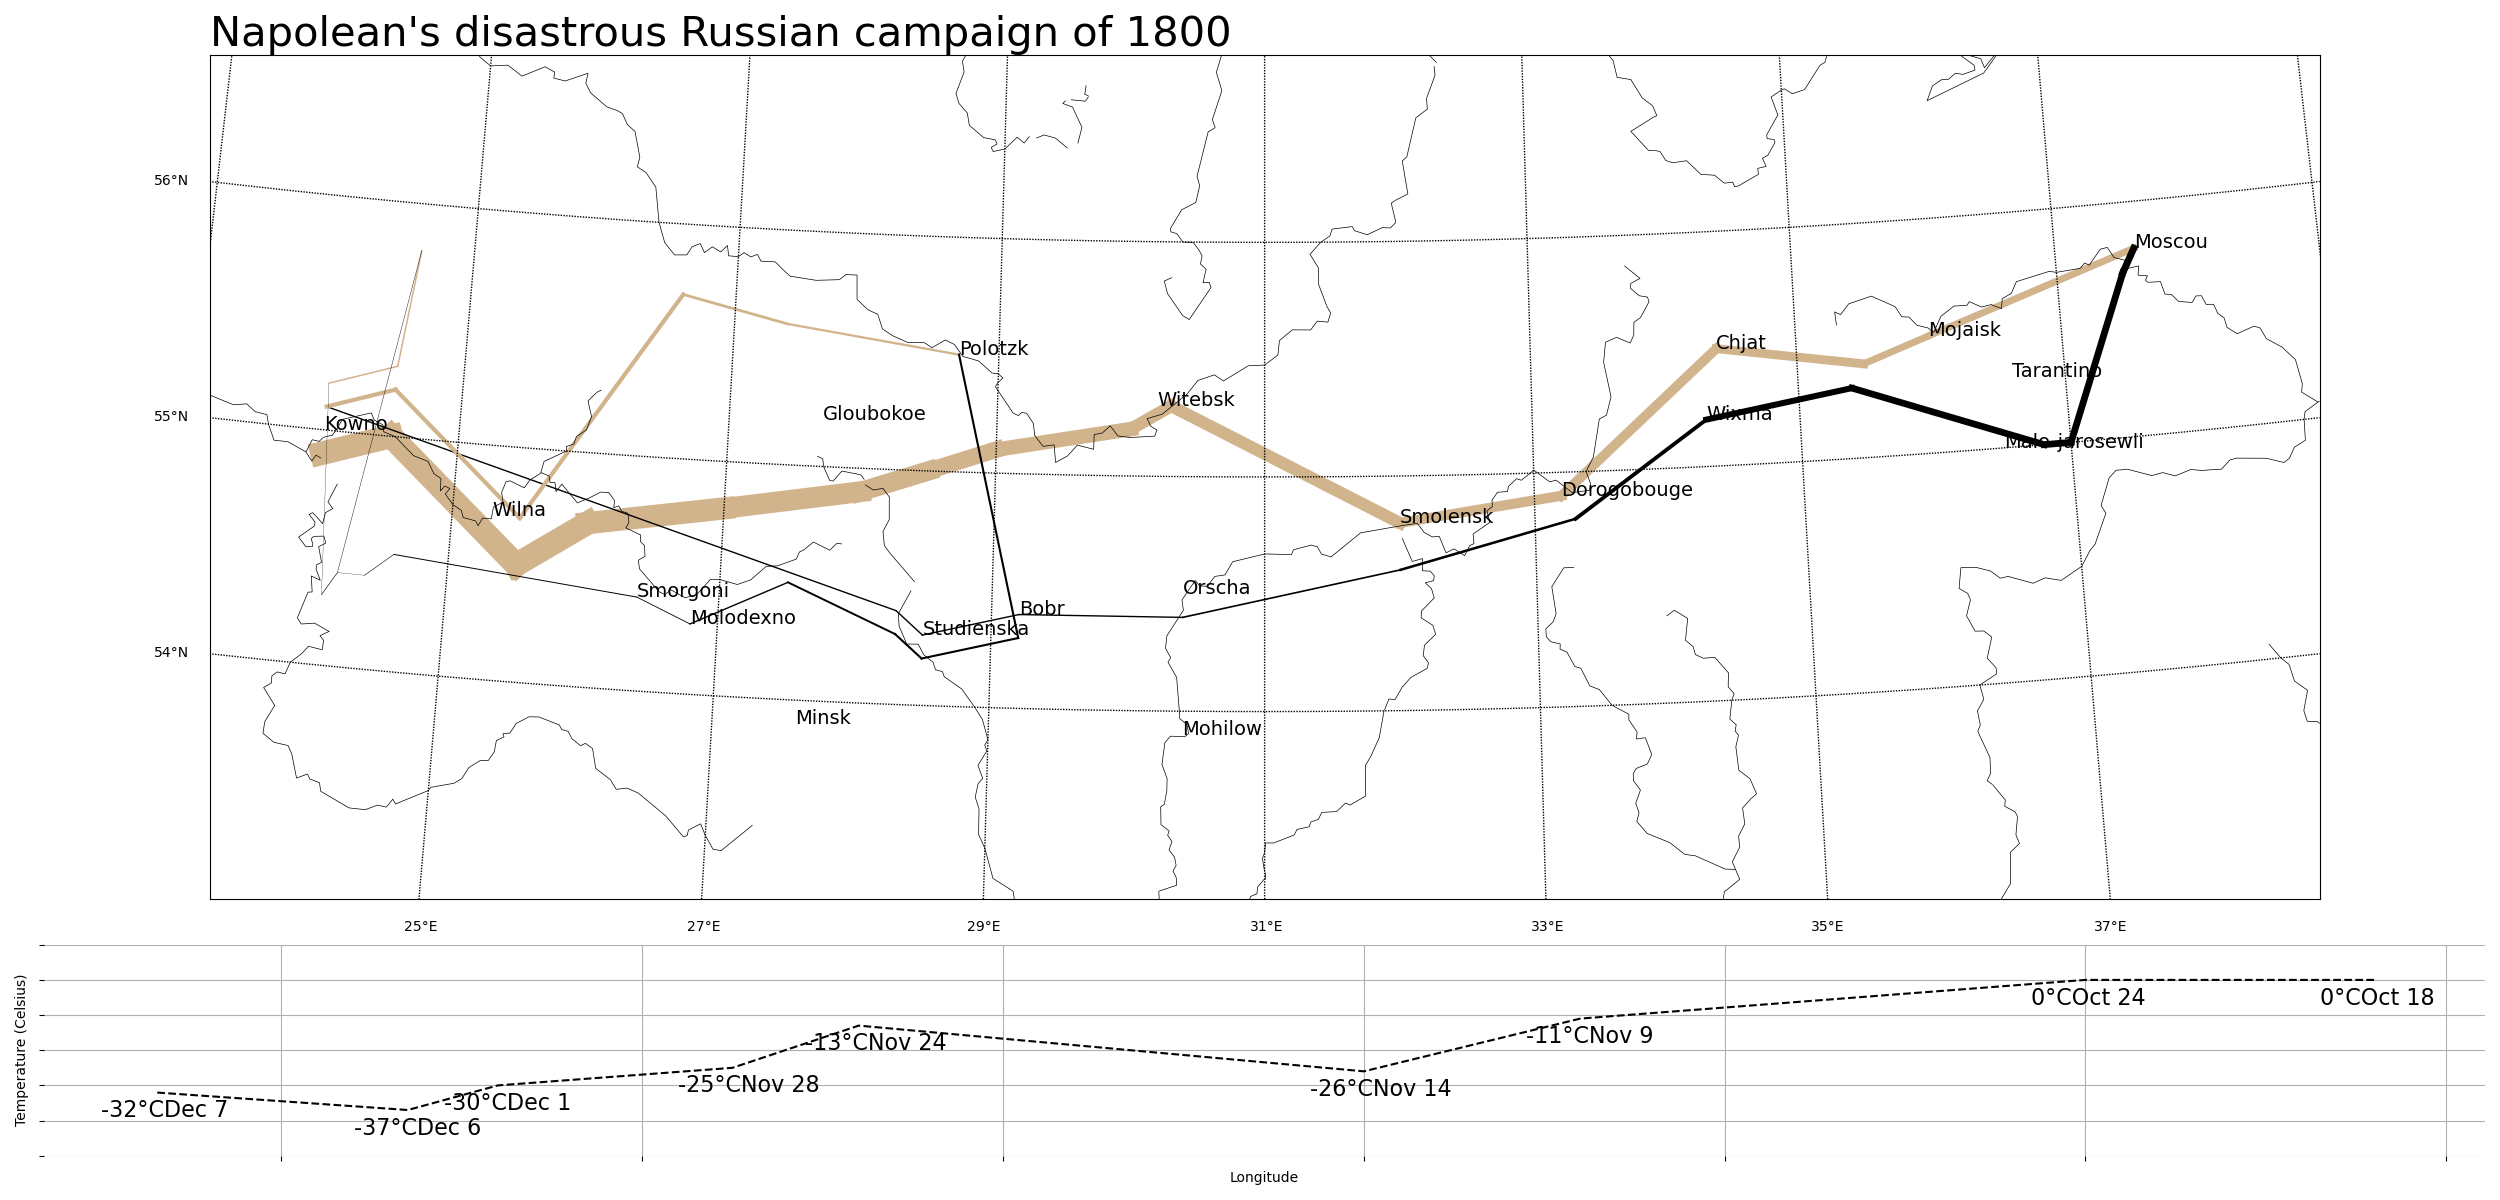
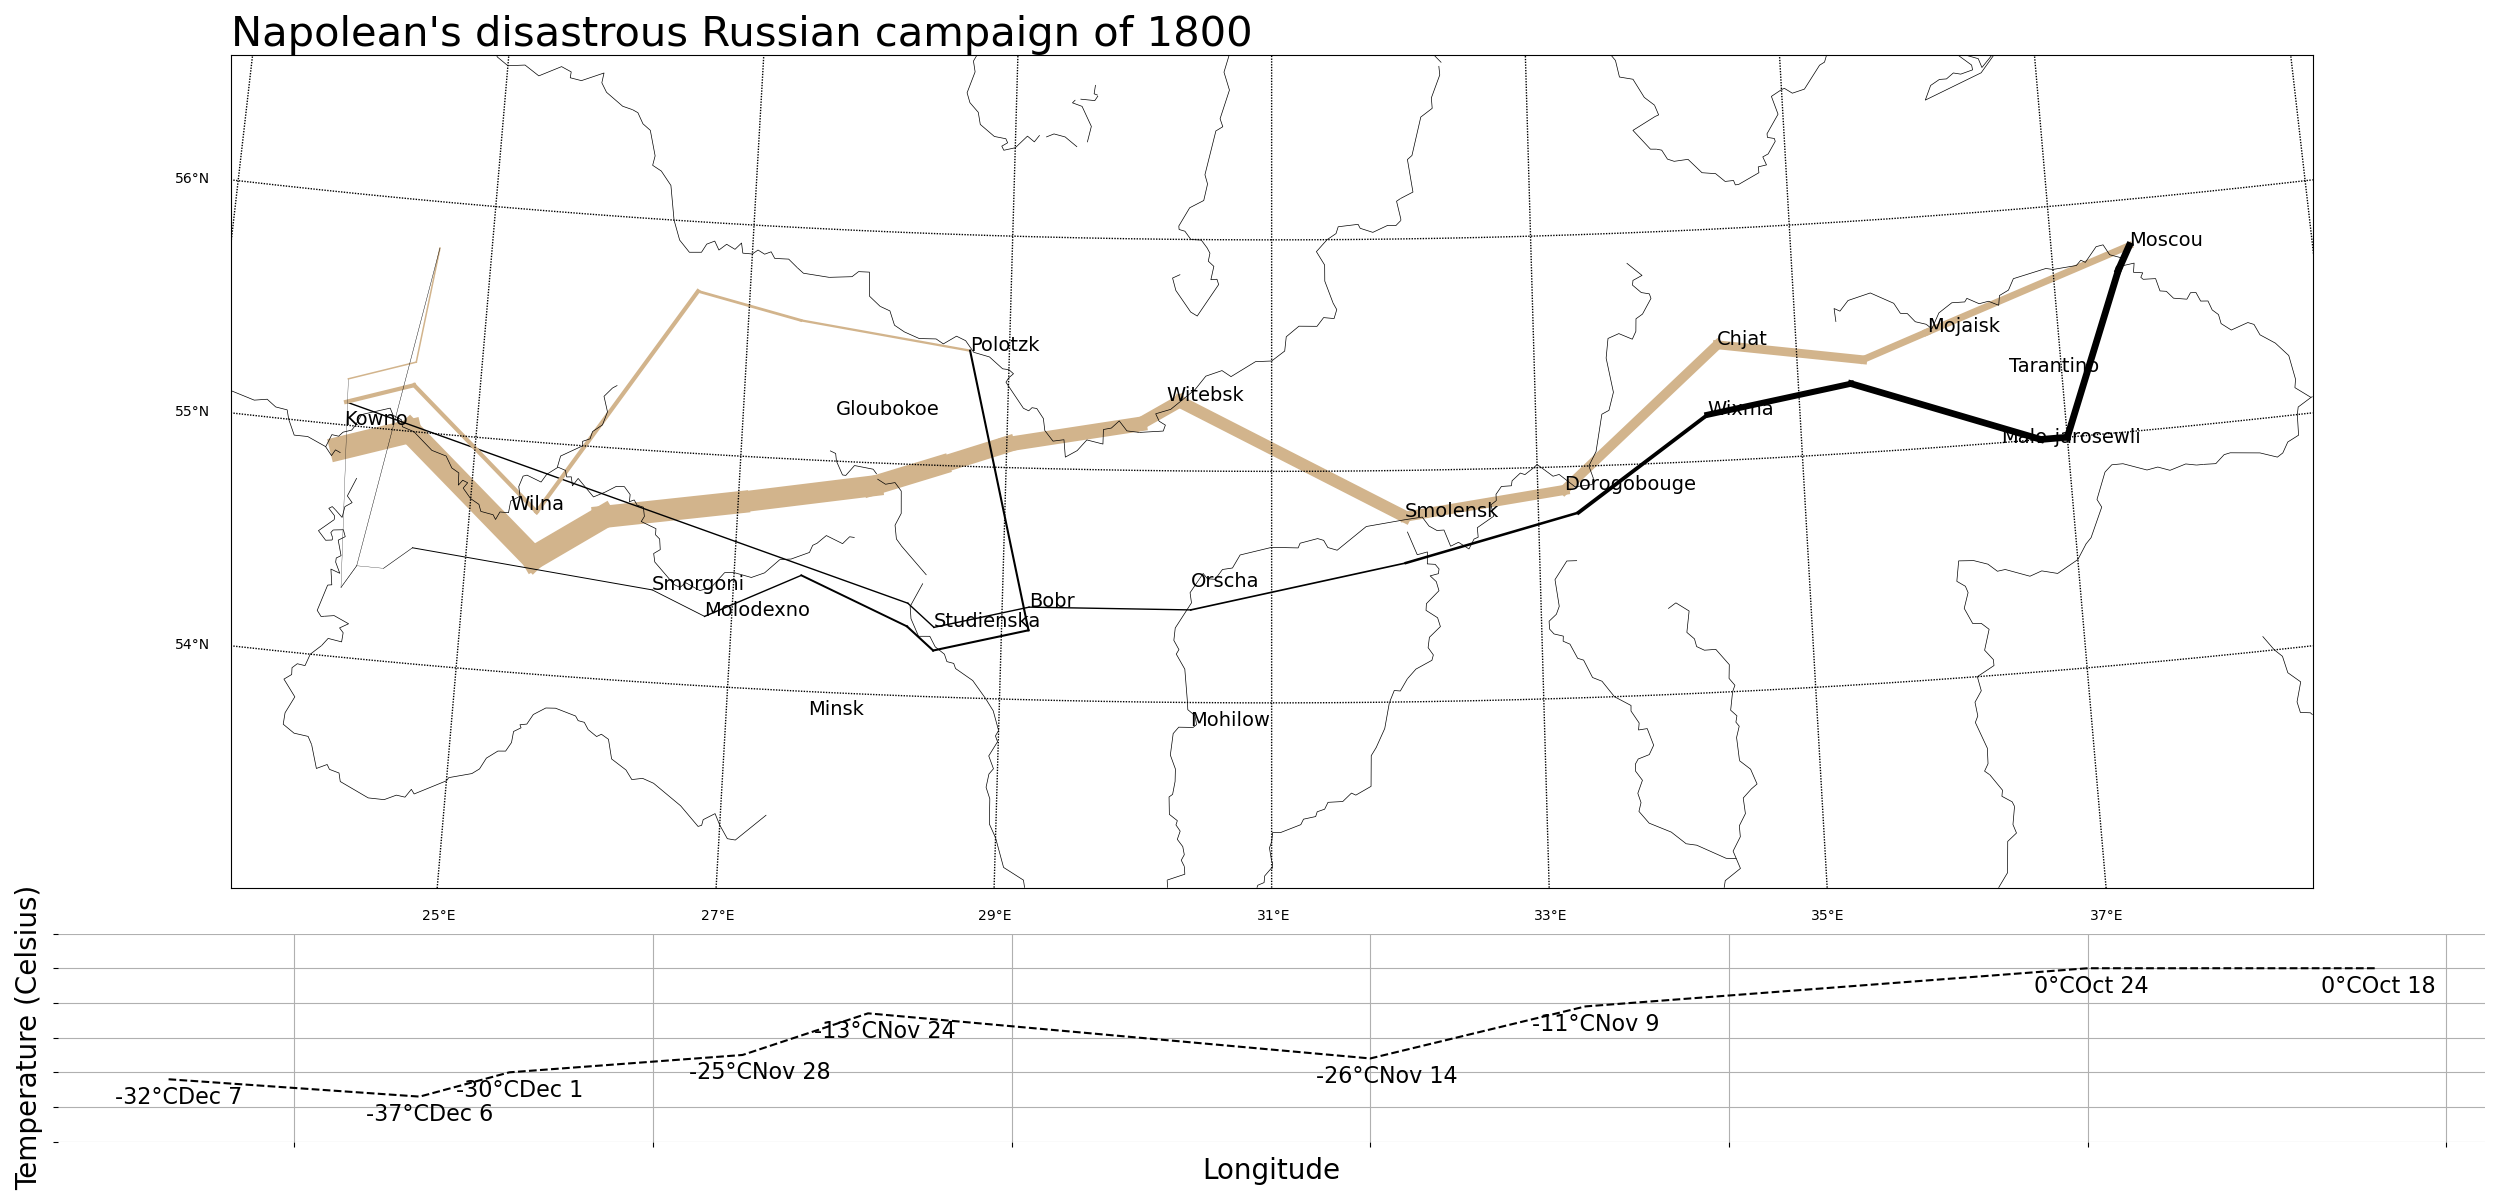
Adjust the label size

diff --git a/plot_with_basemap.py b/plot_with_basemap.py
@@ -68,8 +68,8 @@ ax[1].spines['right'].set_visible(False)
 ax[1].grid(True, which='major', axis='both')
 ax[1].set_xticklabels([])
 ax[1].set_yticklabels([])
-ax[1].set_xlabel("Longitude")
-ax[1].set_ylabel("Temperature (Celsius)")
+ax[1].set_xlabel("Longitude", fontsize=20)
+ax[1].set_ylabel("Temperature (Celsius)", fontsize=20)
 ax[0].set_title("Napolean's disastrous Russian campaign of 1800", loc="left", fontsize=30)
 plt.tight_layout()
 fig.savefig("minard_clone.png")
